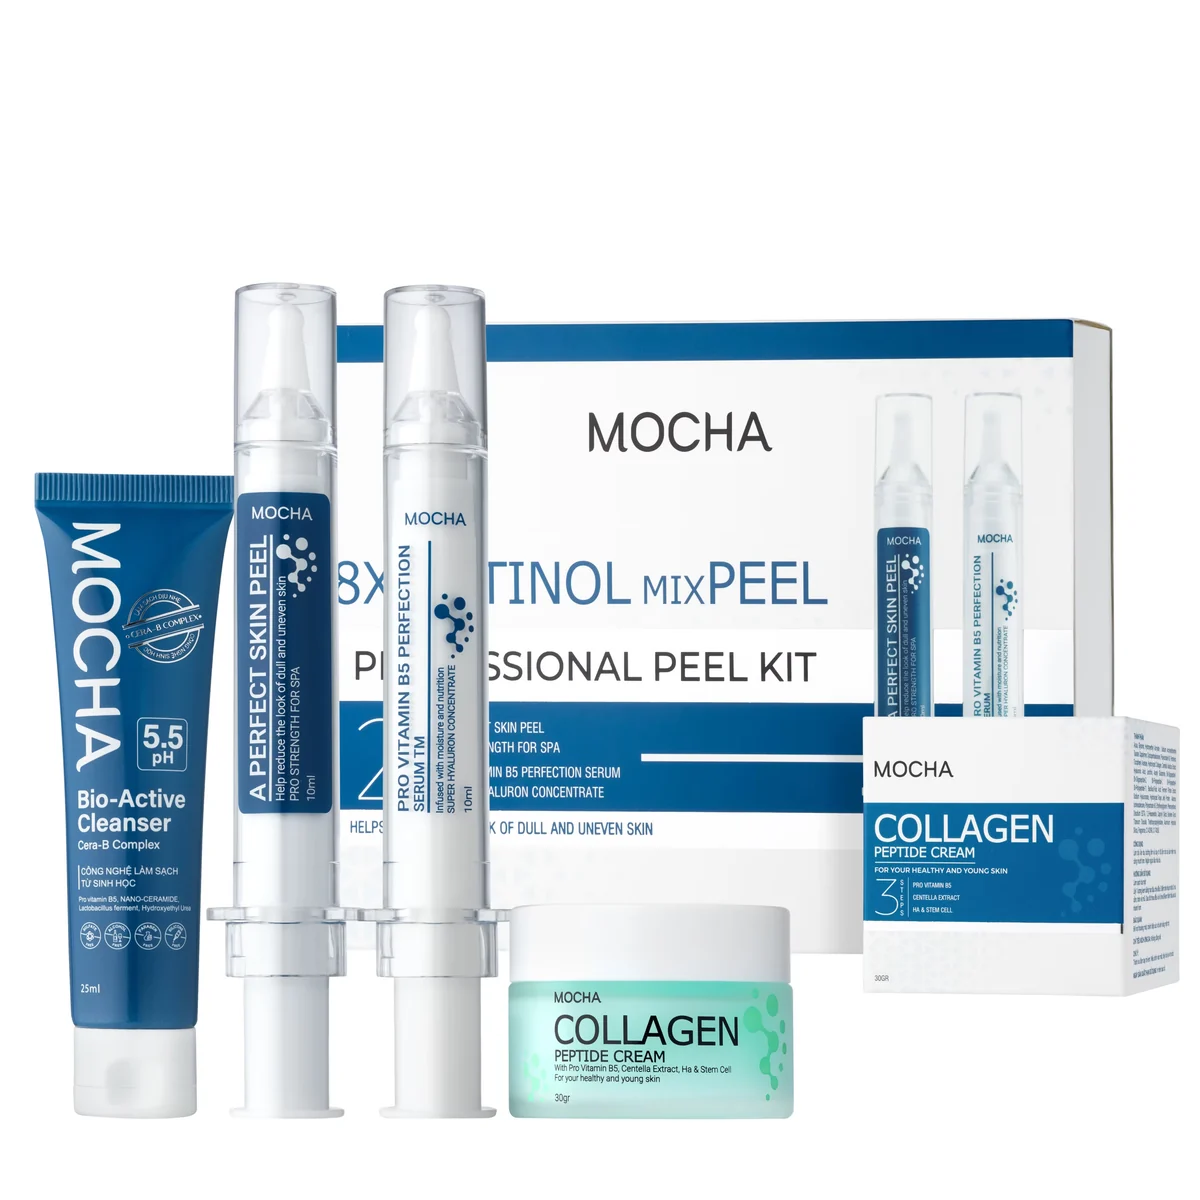
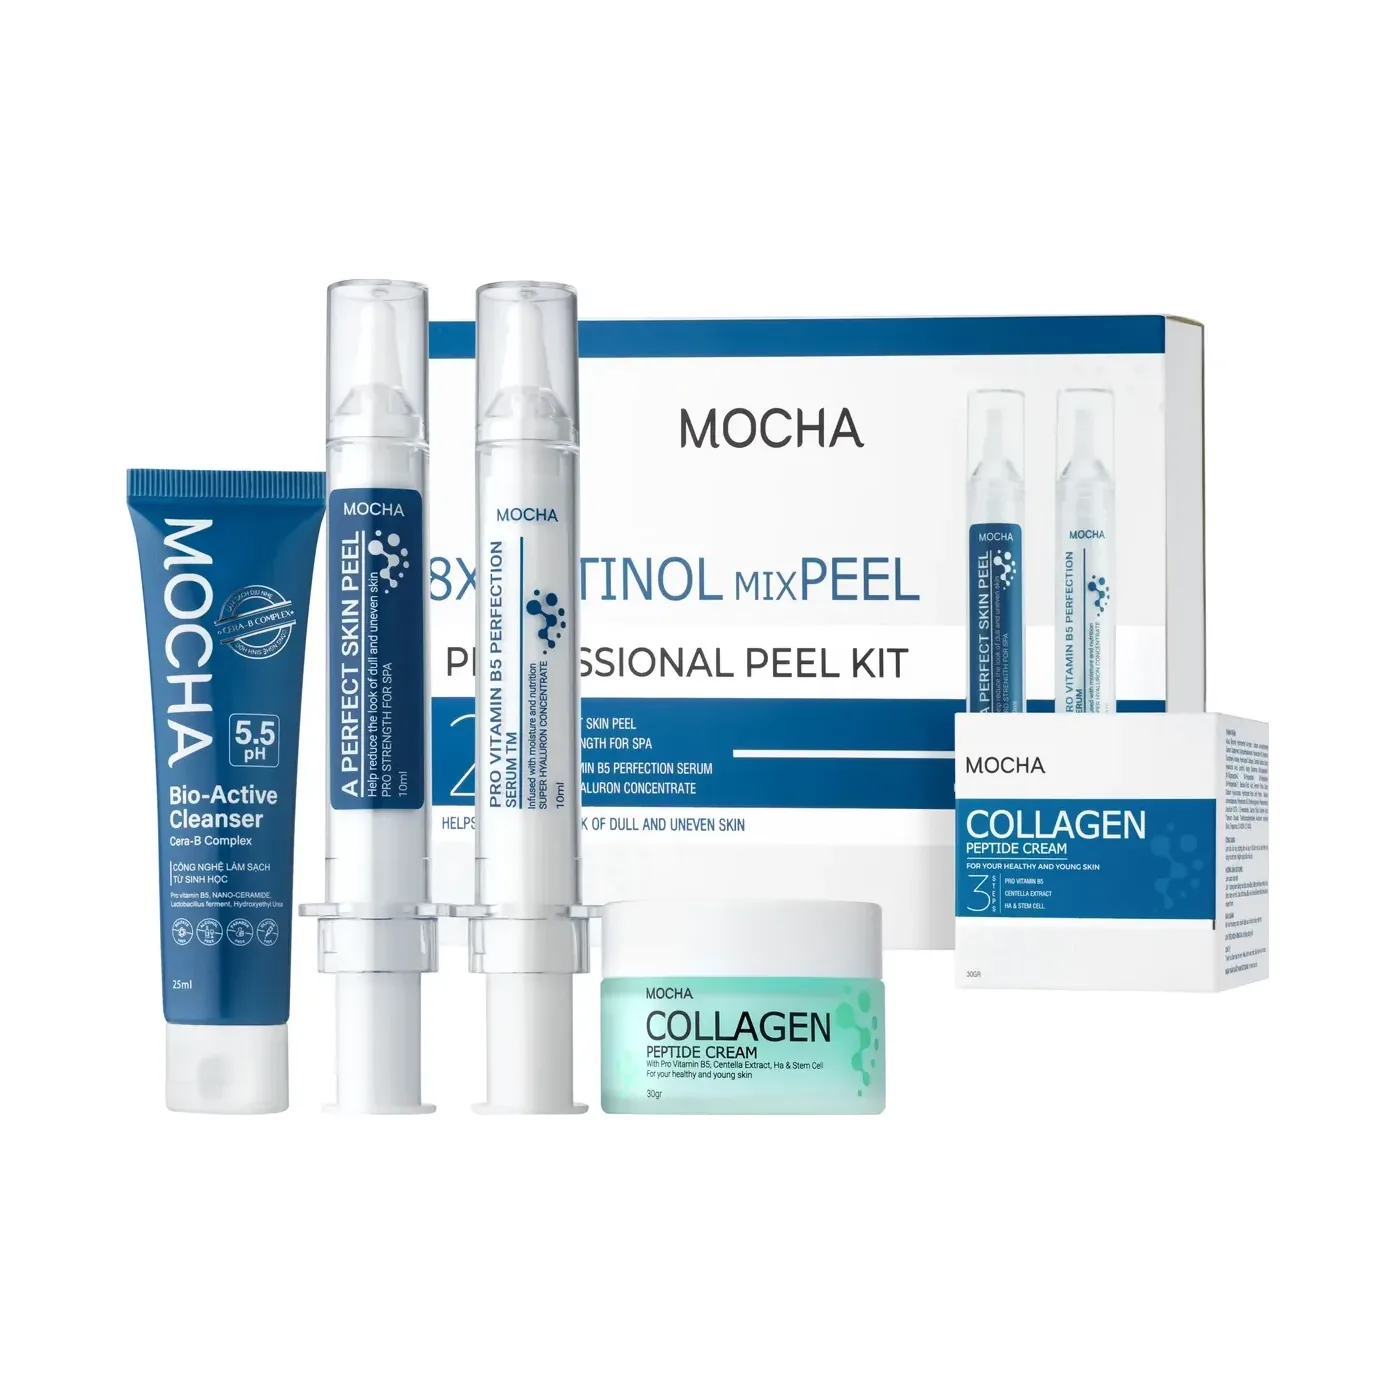
fix(images): chuẩn hoá khung 10 ảnh sản phẩm, và ghi A12 — bao bì in tuyên bố bị cấm
Chủ site hỏi "dùng hình ảnh đã tốt chưa, hài hoà chưa". Đo thì ra hai chuyện,
chuyện thứ hai nghiêm trọng hơn nhiều.

=== 1. Khung ảnh lệch nhau tới bốn lần ===

Phần sản phẩm chiếm từ 24% tới 100% chiều rộng khung:

  biovector          239×803  trong 1000×1000  ->  24%
  bio-deep-detox     296×771  trong 1000×1000  ->  30%
  smart-target       499×884  trong 1000×1000  ->  50%
  brightening-cream  879×738  trong 1000×1000  ->  88%
  retinol-mixpeel   1146×838  trong 1200×1200  ->  96%

Với `object-fit: contain`, phần trắng thừa đó KHÔNG bị cắt — nó được vẽ ra. Nên
lọ này to gấp ba lọ kia trong cùng một lưới, và người đọc không hiểu vì sao.
Đây phá sự hài hoà mạnh hơn cả chuyện lệch màu nền.

`scripts/normalize-packshots.mjs` cắt viền nền đồng nhất rồi đệm lại cho sản
phẩm chiếm đúng 82% cạnh dài của một khung vuông. KHÔNG phóng to một pixel nào:
kích thước khung tính TỪ kích thước sản phẩm, nên thao tác duy nhất là bỏ bớt
nền. Mười ảnh giờ đúng 82%, vuông, và nhẹ hơn 10%.

Kèm theo: khay ảnh trong thẻ đổi từ nền bone sang nền TRẮNG. Chín trên mười hai
ảnh chụp trên #ffffff; đặt lên nền bone thì mỗi thẻ hiện ra một hình chữ nhật
trắng lạc lõng — người đọc thấy cái khung trước khi thấy sản phẩm.

Đo sau: ba thẻ trên trang dòng nám đều có khay 272px và sản phẩm cùng chiều cao.

=== 2. Bao bì in tuyên bố mà chính hàng rào của site chặn ===

Đọc trực tiếp từ file ảnh:

  smart-white-plus:  "DARK SPOTS DISAPPEAR IN JUST 6 DAYS"
                     "BEST CHOICE FOR DARKSPOT"
[…]

diff --git a/docs/ke-hoach-chuan-hoa.md b/docs/ke-hoach-chuan-hoa.md
@@ -62,11 +62,43 @@ Nợ kỹ thuật đang đỏ: `dist/combo-nam/index.html` gzip **24.645B / 24.5
   hiện và sửa ở commit 92de33f. Không cổng nào bắt được: ảnh có thật, kích
   thước đúng, alt text tự viết nên cũng "khớp". Nên người review cần mở từng
   trang sản phẩm và đối chiếu ảnh với vỏ hộp thật một lượt.
-- `[!] A12` **Bao bì Smart Whitening in tuyên bố "DARK SPOTS DISAPPEAR IN JUST
-  4 DAYS".** Đó là mốc thời gian tuyệt đối, mâu thuẫn với toàn bộ lập trường của
-  site về kỳ vọng, và claims-guard chặn. Trang không bê câu đó sang. Nhưng chữ
-  vẫn nằm trên vỏ hộp khách nhận được — cần Mocha biết, và cần thống nhất xem
-  trang nói gì nếu khách hỏi tại sao hai nơi nói khác nhau.
+- `[!] A12` **Bao bì in tuyên bố bị cấm, và ảnh sản phẩm đang hiển thị chúng ở
+  cỡ hero. Đây là rủi ro pháp lý, không phải chuyện thẩm mỹ.**
+
+  Đọc trực tiếp từ file ảnh (phóng to vùng chữ trên vỏ):
+
+  | Ảnh | Chữ in trên bao bì |
+  |---|---|
+  | `packshot-smart-white-plus` | **"DARK SPOTS DISAPPEAR IN JUST 6 DAYS"**, "BEST CHOICE FOR DARKSPOT", "Minimize scarring", "Skin restoration" |
+  | `packshot-smart-target` | **"REDUCE INFLAMMATION AND SWELLING IN JUST 8 HOURS"**, **"CONTROL ALL CAUSES OF ACNE"**, "INTENSIVE ACNE TREATMENT", "REPAIR AND PREVENT ACNE FROM COMING BACK" |
+
+  (Ghi chú trước đây viết "4 DAYS" — số thật trên vỏ là **6 DAYS**. Đã sửa.)
+
+  Hai trên hai ảnh kiểm tra đều có. Chưa kiểm mười ảnh còn lại.
+
+  **Vì sao nghiêm trọng.** Mốc thời gian bảo đảm ("in just 6 days", "in just 8
+  hours"), cực cấp ("BEST CHOICE"), tuyệt đối hoá ("ALL causes"), và từ
+  "TREATMENT" gợi ý tác dụng như thuốc — đều là thứ `claims-guard` chặn ngay
+  nếu ai gõ chúng vào file nội dung. Nhưng ở đây chúng là **pixel**, không phải
+  chuỗi, nên không một cổng nào trong CI nhìn thấy. Đó là lỗ hổng của chính hệ
+  thống hàng rào: nó quét chữ, không quét ảnh.
+
+  Và chúng đang nằm trên **trang đích của quảng cáo Google**, ở cỡ hero, đúng
+  chỗ bộ phận duyệt quảng cáo và cơ quan quản lý nhìn vào đầu tiên.
+
+  **Cần chủ site quyết, ba hướng:**
+  1. Hỏi Mocha xin bộ ảnh chụp góc không lộ những panel đó.
+  2. Cắt lại khung ảnh để chữ không đọc được. Làm được ngay, nhưng đây là
+     che một dòng chữ có thật trên hộp khách sẽ nhận — cần chủ site đồng ý
+     rằng đó là lựa chọn đúng.
+  3. Giữ nguyên và chấp nhận rủi ro.
+
+  Tôi không tự chọn hướng 2: giấu một tuyên bố trên bao bì là quyết định về
+  rủi ro pháp lý và về mức trung thực với khách, không phải quyết định thiết kế.
+
+  **Việc kèm theo:** cần một người đọc hết mười hai ảnh còn lại và ghi ra mọi
+  dòng chữ in trên bao bì. Tôi không có cách đọc chữ trong ảnh đủ tin cậy để
+  khẳng định ảnh nào sạch.
 - `[!] A11` **Tinh chất phục hồi B5 10ml — thiếu dữ liệu để dựng trang.** Trang
   sản phẩm chính hãng chỉ có xuất xứ, dung tích và hai dòng công dụng; không có
   bảng thành phần nào, và nhãn chai cũng chỉ đọc được "PRO-VITAMIN B5
@@ -107,6 +139,14 @@ Nợ kỹ thuật đang đỏ: `dist/combo-nam/index.html` gzip **24.645B / 24.5
   Sửa đúng cách cần chuyển phần tràn lề ra khỏi đơn vị `vw` — tức là đổi cấu
   trúc khối hero, cùng chỗ với `A15`. Gộp hai việc làm một lần, khi chủ site
   quyết định hướng bố cục hero.
+- `[!] A17` **Hai ảnh là ảnh bối cảnh, không phải packshot.**
+  `packshot-combo` (nền xanh #bfe2f5, cảnh có bục) và `packshot-smart-white-plus`
+  (banner cao 900×1890, nền gradient xanh, có dụng cụ thí nghiệm) thuộc một ngôn
+  ngữ hình ảnh khác hẳn mười ảnh còn lại — vốn là packshot trên nền trắng.
+  Đặt cạnh nhau trong cùng một lưới thì thấy ngay là hai bộ ảnh khác nhau.
+  Script `scripts/normalize-packshots.mjs` cố ý bỏ qua chúng: không có viền
+  đồng nhất để cắt, và cắt cũng không làm chúng thành packshot được.
+  Cần chụp lại trên nền trắng như mười ảnh kia.
 - `[!] A9` **Zalo OA.** Bản cào có `zalo.me/4500053981574656766` (OA chính
   thức), trong khi site đang dùng `zalo.me/0367848918` (số cá nhân). Cần chủ
   site chọn kênh nào là kênh chính thức để khai nhất quán.
